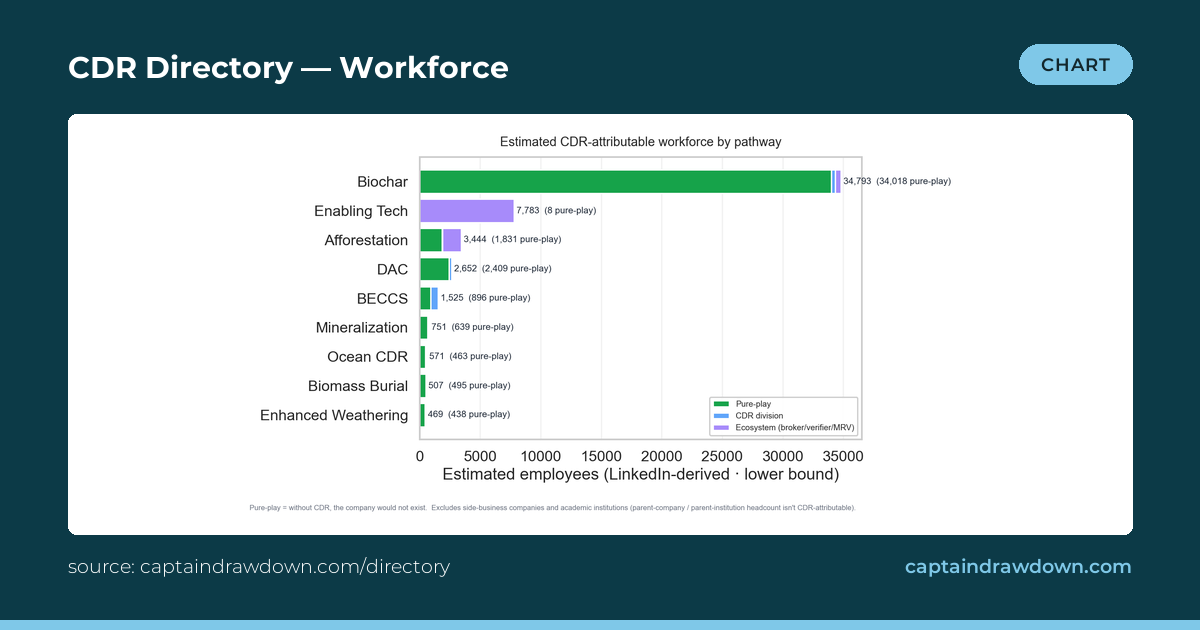
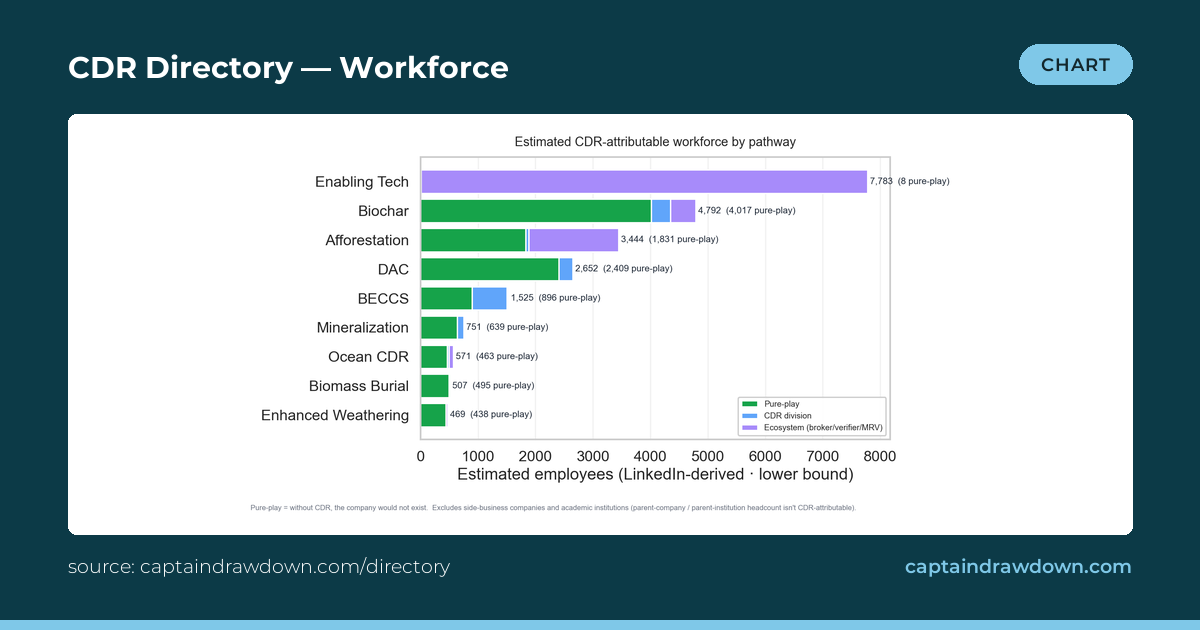
Auto-deploy 2026-09-01

Changed region(s): [[0.2158, 0.2413, 0.8017, 0.6937], [0.2158, 0.6333, 0.74, 0.8143], [0.4008, 0.2111, 0.6783, 0.2413]]

diff --git a/content/posts/2026-09-01-data-viz-directory-workforce-by-pathway-2026-09-01.md b/content/posts/2026-09-01-data-viz-directory-workforce-by-pathway-2026-09-01.md
@@ -1,5 +1,5 @@
 ---
-title: "Biochar leads CDR employment with 377 workers across all pathways"
+title: "Enabling tech dwarfs CDR with 7,783 workers while pure-play producers trail"
 date: 2026-09-01T09:00:00+02:00
 slug: "data-viz-directory-workforce-by-pathway-2026-09-01"
 content_type: "type7_dataviz"
@@ -20,7 +20,7 @@ Read it carefully. Headcount is not tonnage, not revenue, and not durability. A 
 
 ## What the chart shows today
 
-Biochar dominates the directory with 377 companies, more than double DAC's 125 and Enabling Tech's 179. But the focus breakdown tells the real story: of 969 visible orgs, only 35 are dedicated divisions inside larger firms, while 569 are suppliers and another 211 sit in the ecosystem layer around the actual producers. Those 569 pure-plays collectively employ just 9,671 people, meaning the average CDR-native company is a 17-person shop. If you're modeling deployment capacity from headcount, most of the "CDR workforce" you read about lives in ecosystem and side-business orgs, not in the producers actually moving tons.
+7,783 CDR-attributable workers sit in Enabling Tech, and 7,775 of them (99.9%) work at ecosystem players rather than pure-play suppliers, meaning the biggest "CDR workforce" bucket is essentially picks-and-shovels infrastructure. Biochar is the opposite story: 4,792 workers total, with 4,017 at pure-play suppliers actually making the stuff. Afforestation splits down the middle at 1,831 supplier vs 1,559 ecosystem headcount. Across all 22,494 attributable workers, pure-play producers account for just 11,196 - so half the "CDR workforce" is really adjacent infrastructure, and any headline citing the full number is overstating how many people are directly removing carbon.
 
 ---
 
